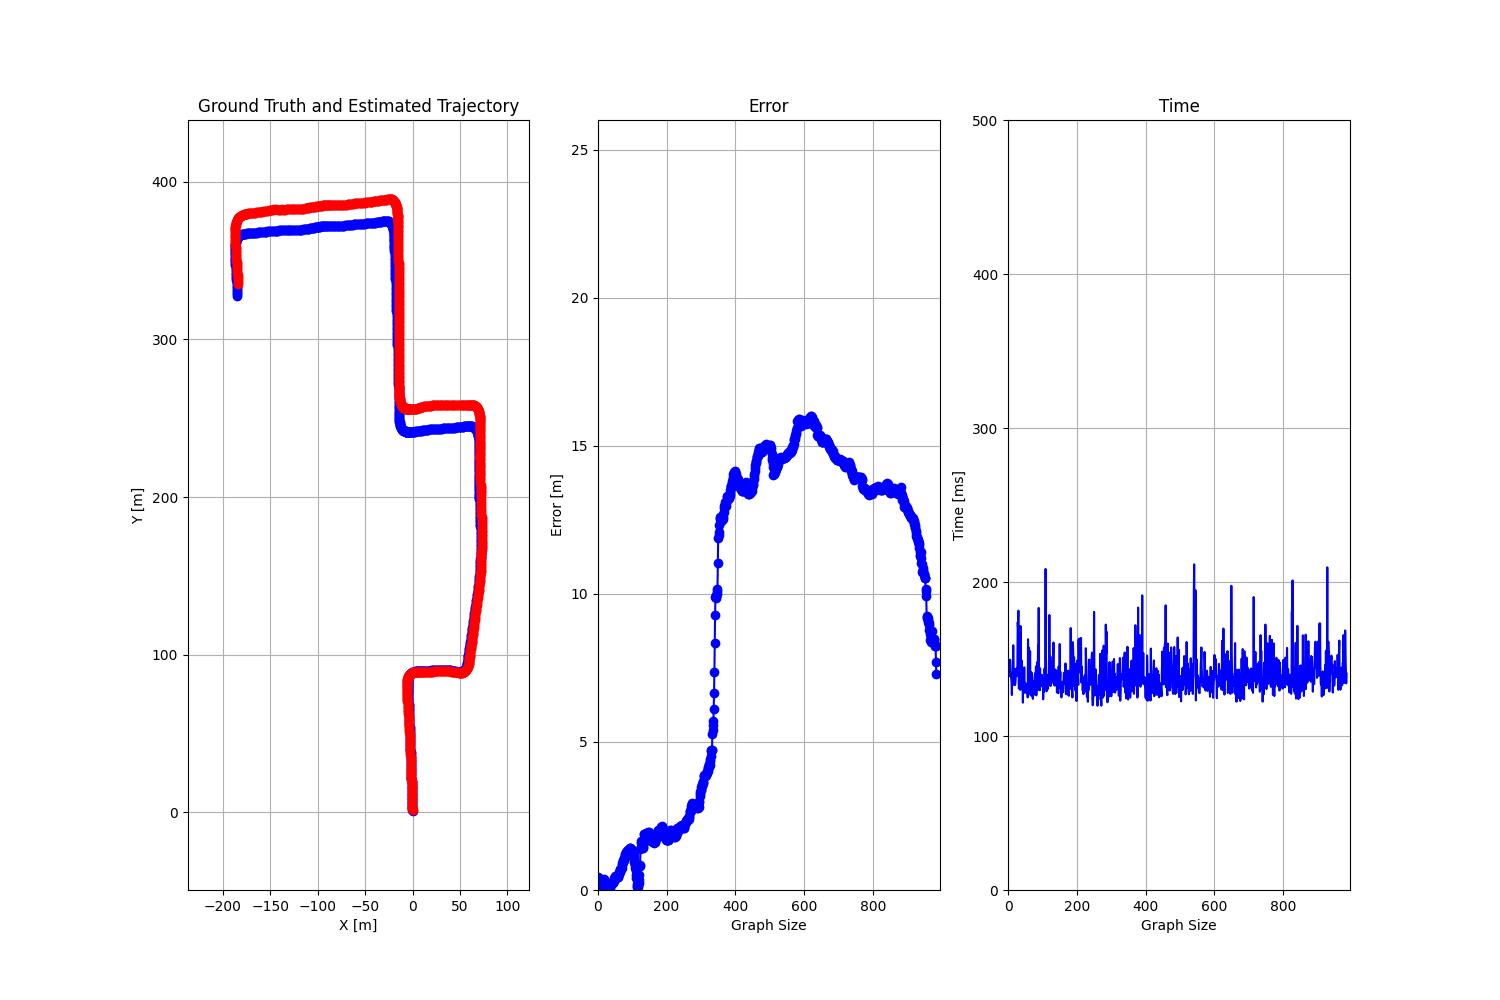
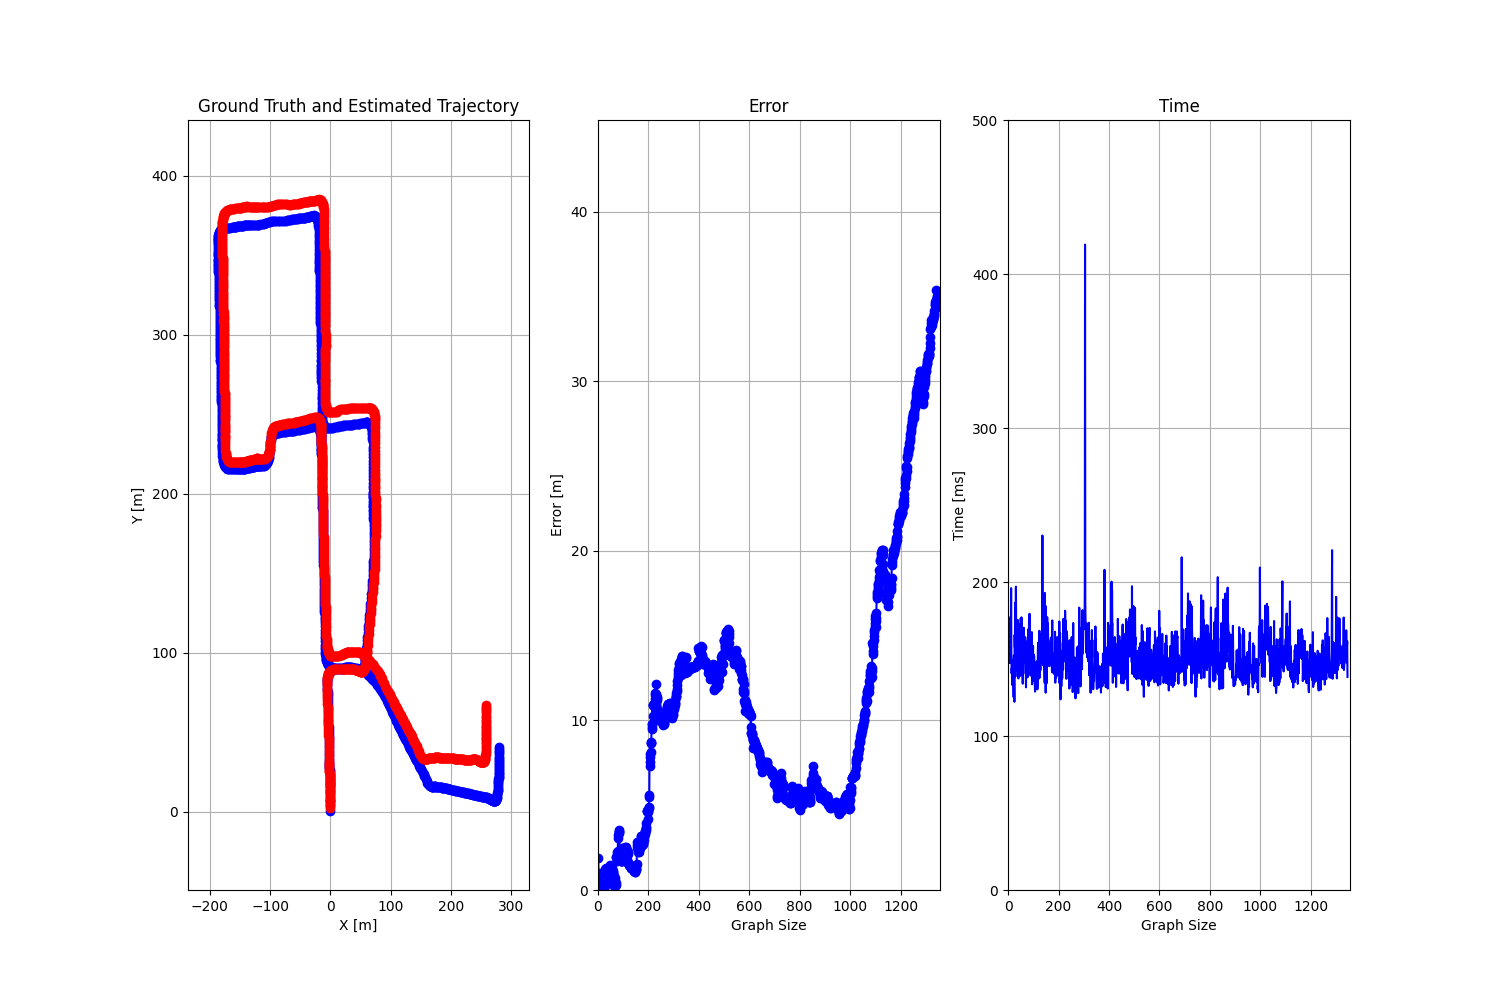
g

diff --git a/src/main.py b/src/main.py
@@ -36,7 +36,7 @@ from matplotlib import rcParams
 
 # make an argument parser that takes an argument called threshhold
 parser = argparse.ArgumentParser()
-parser.add_argument('--threshhold', type=int, default=10)
+parser.add_argument('--threshhold', type=int, default=90)
 # read the arguments
 args = parser.parse_args()
 threshhold = args.threshhold
@@ -52,7 +52,7 @@ rcParams['animation.convert_path'] = r'/usr/local/bin/convert'
 print("Project in VSLAM")
 
 
-num_images = 1015
+num_images = 2015
 dataset = get_dataset(num_images)
 gt_poses = dataset.poses
 infotest=np.array([1,2,3])

diff --git a/x_analyse_data.py b/x_analyse_data.py
@@ -3,9 +3,9 @@ import json
 import numpy as np
 
 
-
+string = 'keyframe_test/keyframe_test90.json'
 # read the data.json and values in lists
-with open('data.json') as json_file:
+with open(string) as json_file:
     data = json.load(json_file)
     error = data['error']
     time = data['time']

diff --git a/x_key_frame_test.py b/x_key_frame_test.py
@@ -76,7 +76,7 @@ print(frames_removed)
 
 plt.plot(threshholds[0:len(mean_errors)], mean_errors)
 plt.xlabel('Threshold')
-plt.ylabel('Sum Error [m]')
+plt.ylabel('Mean Error [m]')
 plt.title('Mean Error vs Threshold')
 # save the plot
 plt.savefig('sum_error_vs_threshold.png')
